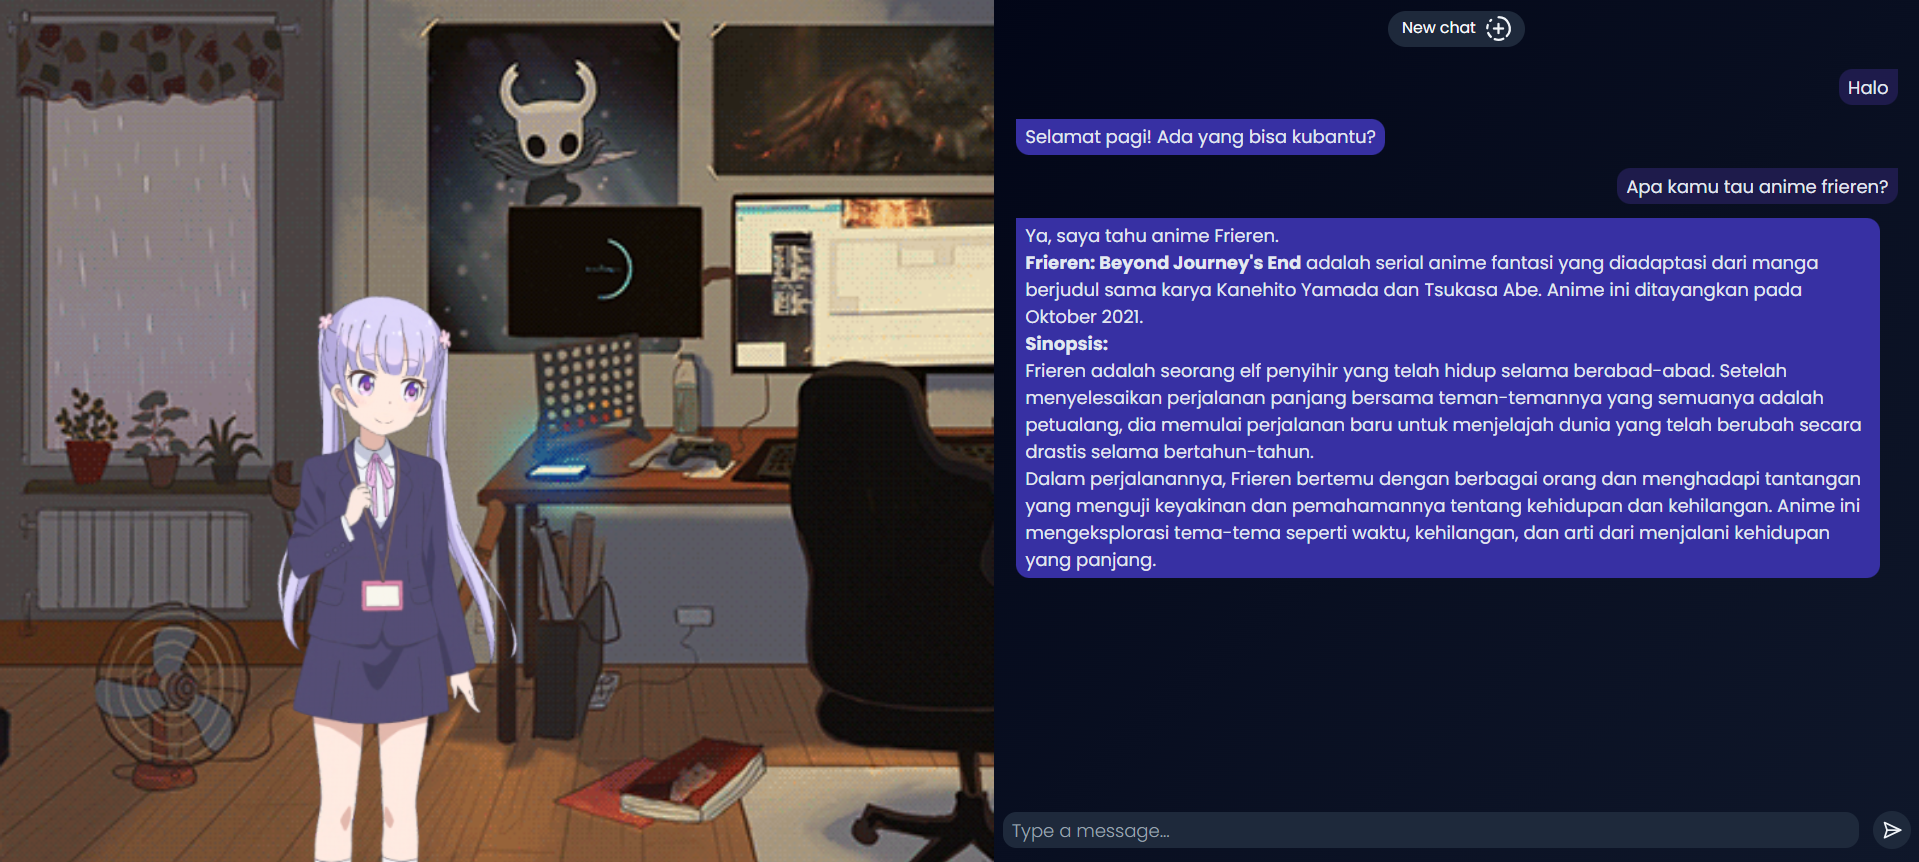
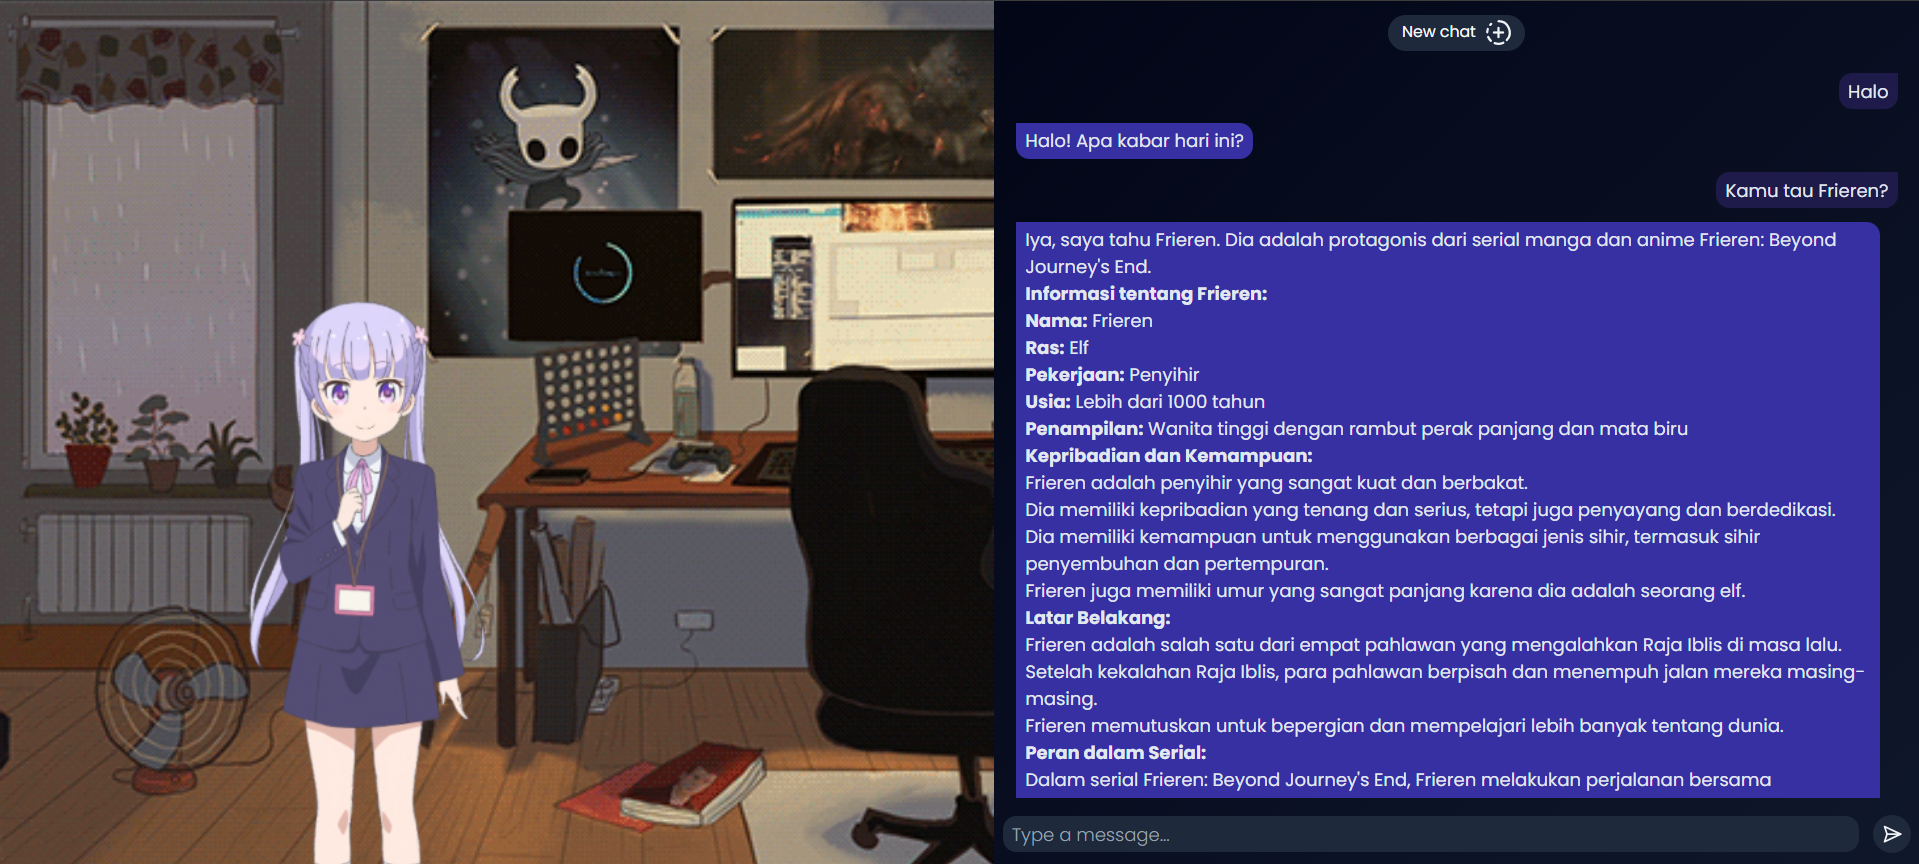
fix: make model more conversational

diff --git a/server/index.ts b/server/index.ts
@@ -1,7 +1,11 @@
 const express = require("express");
 const cors = require("cors");
 const dotenv = require("dotenv");
-const { GoogleGenerativeAI } = require("@google/generative-ai");
+const {
+  GoogleGenerativeAI,
+  HarmBlockThreshold,
+  HarmCategory,
+} = require("@google/generative-ai");
 
 dotenv.config();
 
@@ -18,18 +22,44 @@ app.listen(PORT, () => {
 });
 
 app.post("/aoba", async (req, res) => {
-  const model = genAI.getGenerativeModel({ model: "gemini-pro" });
+  try {
+    const safetySettings = [
+      {
+        category: HarmCategory.HARM_CATEGORY_HARASSMENT,
+        threshold: HarmBlockThreshold.BLOCK_NONE,
+      },
+      {
+        category: HarmCategory.HARM_CATEGORY_HATE_SPEECH,
+        threshold: HarmBlockThreshold.BLOCK_NONE,
+      },
+      {
+        category: HarmCategory.HARM_CATEGORY_SEXUALLY_EXPLICIT,
+        threshold: HarmBlockThreshold.BLOCK_NONE,
+      },
+      {
+        category: HarmCategory.HARM_CATEGORY_DANGEROUS_CONTENT,
+        threshold: HarmBlockThreshold.BLOCK_NONE,
+      },
+    ];
 
-  // const chat = model.startChat({
-  //   history: req.body.history,
-  // });
+    const model = genAI.getGenerativeModel({
+      model: "gemini-1.0-pro",
+      safetySettings,
+    });
 
-  const prompt = req.body.message;
+    const chat = model.startChat({
+      history: req.body.history,
+    });
 
-  const result = await model.generateContent(prompt);
-  const response = await result.response;
-  const text = response.text();
+    const msg = req.body.message;
 
-  console.log(text);
-  res.json(text);
+    const result = await chat.sendMessage(msg);
+    const response = await result.response;
+    const text = response.text();
+
+    // console.log(text);
+    res.json(text);
+  } catch (error) {
+    res.json("Please input a proper message 😉");
+  }
 });

diff --git a/client/src/components/Chat.tsx b/client/src/components/Chat.tsx
@@ -5,7 +5,7 @@ import Markdown from "react-markdown";
 
 type chatHistoryType = {
   role: string;
-  parts: string;
+  parts: any[];
 };
 
 const divStyle = {
@@ -13,7 +13,7 @@ const divStyle = {
   model: "flex justify-start",
 };
 
-const pStyle = {
+const textStyle = {
   user: "ml-4 w-fit rounded-xl rounded-tr-none bg-indigo-950 px-2 py-1",
   model: "mr-4 w-fit rounded-xl rounded-tl-none bg-indigo-800 px-2 py-1",
 };
@@ -39,7 +39,7 @@ export default function Chat() {
         ...previousChat,
         {
           role: "model",
-          parts: data,
+          parts: [{ text: data }],
         },
       ]);
 
@@ -63,7 +63,7 @@ export default function Chat() {
       ...previousChat,
       {
         role: "user",
-        parts: value,
+        parts: [{ text: value }],
       },
     ]);
 
@@ -137,8 +137,8 @@ export default function Chat() {
 function ChatItem({ role, parts }: chatHistoryType) {
   return (
     <div className={role == "user" ? divStyle.user : divStyle.model}>
-      <span className={role == "user" ? pStyle.user : pStyle.model}>
-        <Markdown>{parts}</Markdown>
+      <span className={role == "user" ? textStyle.user : textStyle.model}>
+        <Markdown>{parts[0].text}</Markdown>
       </span>
     </div>
   );
